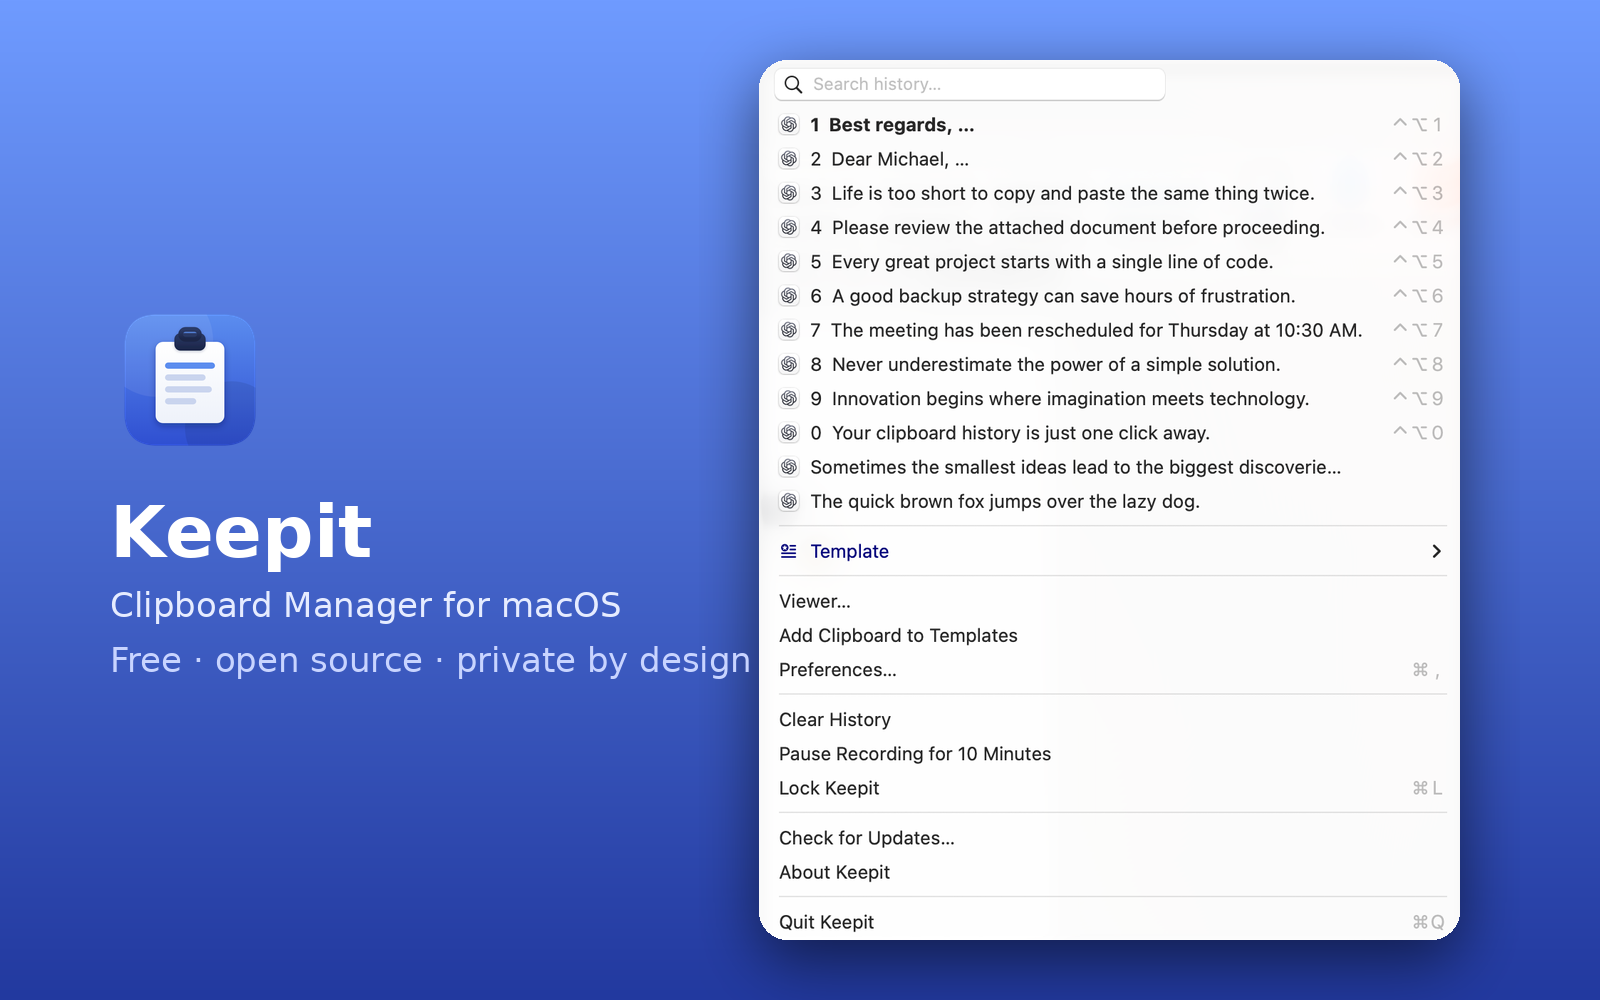
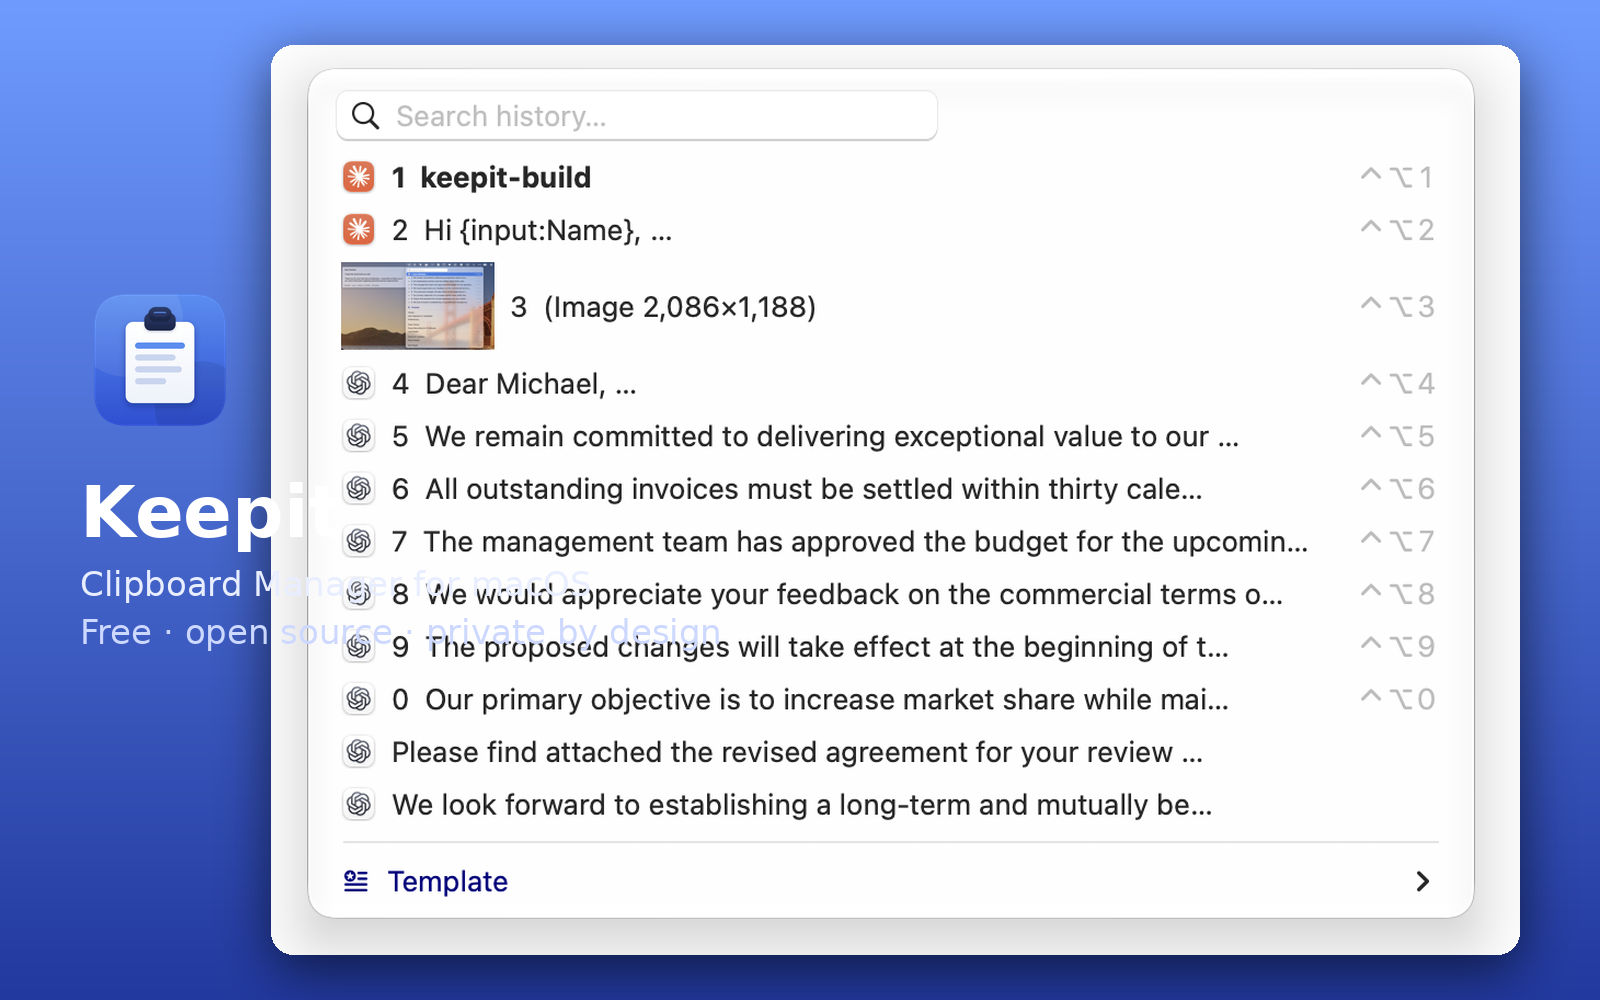
Site, guide, OG and social preview: 2.9.1 history menu screenshot
Claude-Session: https://claude.ai/code/session_018CvCqxSRbLMzpaocuVb3aG

diff --git a/docs/site/guide.html b/docs/site/guide.html
@@ -24,7 +24,7 @@ nav.top a{margin-right:16px}
 <p>Keepit is a clipboard history and template manager for macOS. It lives in the menu bar, remembers
 everything you copy, and pastes any of it back with a hot key. All shortcuts below are the defaults;
 each can be changed in <em>Preferences → Hot keys</em>.</p>
-<figure class="shot" style="max-width:492px"><a href="img/guide/menu.png" class="zoom" title="Open full size"><img src="img/guide/menu.png" alt="The history menu" width="492" height="617" loading="lazy"></a><figcaption>The history menu</figcaption></figure>
+<figure class="shot" style="max-width:570px"><a href="img/guide/menu.png" class="zoom" title="Open full size"><img src="img/guide/menu.png" alt="The history menu" width="570" height="415" loading="lazy"></a><figcaption>The history menu</figcaption></figure>
 <p><strong>Contents</strong></p>
 <ul>
 <li><a href="#part-1--getting-started">Part 1 — Getting started</a>: <a href="#install">Install</a> · <a href="#first-launch">First launch</a></li>
